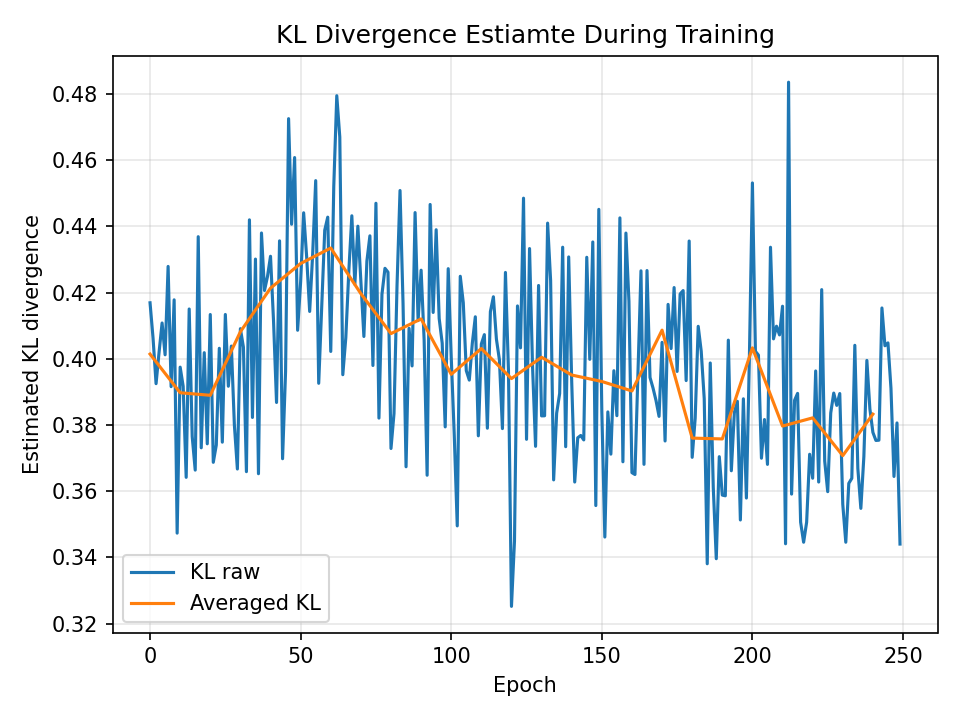
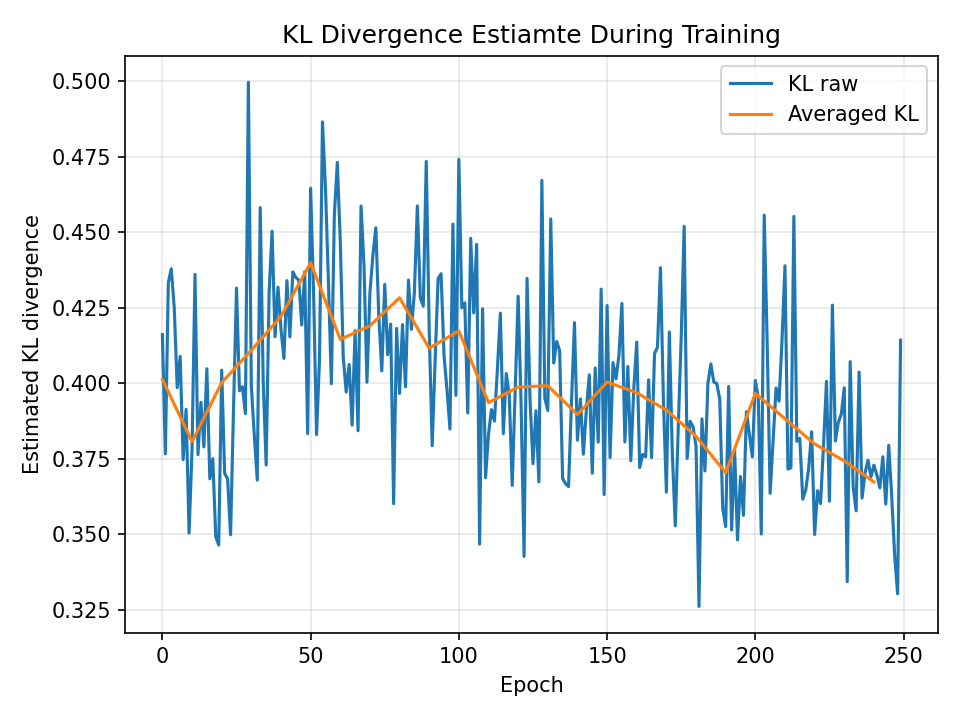
Slightly more consistent KL Starting with same intial lattice configuration each iteration

diff --git a/Assignment 4/src/ising.py b/Assignment 4/src/ising.py
@@ -19,14 +19,15 @@ class Ising1D():
 
         self.N = N
         self.num_samples = num_samples
+        self.seed = seed
 
         # setup the lattices
-        self.generate_lattices()
+        self.generate_lattices(seed)
         
 
-    def generate_lattices(self) -> np.ndarray:
+    def generate_lattices(self, seed) -> np.ndarray:
         '''Generates num_samples amount of 1D lattices of shape N'''
-        np.random.seed()
+        np.random.seed(seed+1)
         self.lattices = (np.random.randint(0, 2, size=(self.num_samples, self.N)) * 2) - 1
 
     def equilibrium(self, flips_per_site=100):
@@ -81,7 +82,7 @@ class Ising1D():
 
         for epoch in range(num_epochs):
             # generate lattices, go to equilibrium, and average couplers
-            self.generate_lattices()
+            self.generate_lattices(self.seed)
             self.equilibrium(flips_per_site=flips_per_site)
             model_coupler_avg = avg_coupler(self.lattices)
 
